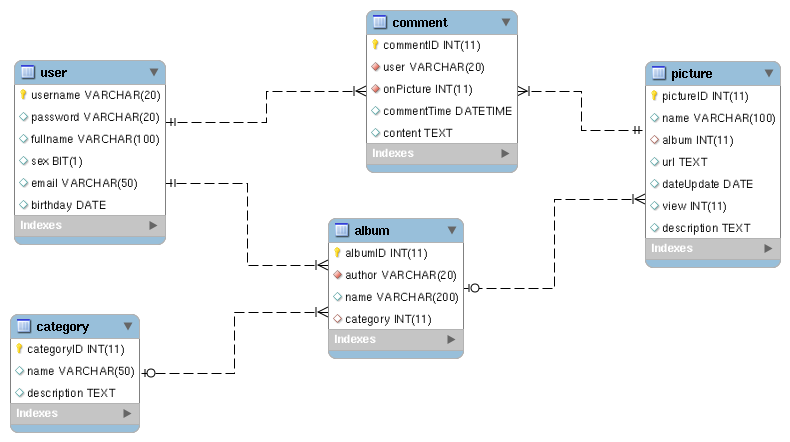
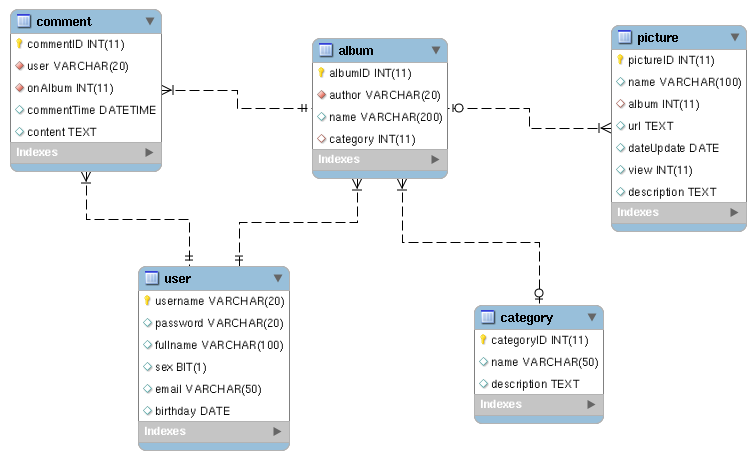
Change field onPicture to onAlbum in table Comment

diff --git a/FisMediaSite/src/main/java/fis/longlive/database/process/ProcessComment.java b/FisMediaSite/src/main/java/fis/longlive/database/process/ProcessComment.java
@@ -55,8 +55,8 @@ public final class ProcessComment {
 				break;
 			case "user":
 				comment.setUser((Integer) value);
-			case "onPicture":
-				comment.setOnPicture((Integer) value);
+			case "onAlbum":
+				comment.setOnAlbum((Integer) value);
 				break;
 			case "content":
 				comment.setContent((String) value);
@@ -82,7 +82,7 @@ public final class ProcessComment {
 		update(id, "content", newContent);
 	}
 	
-	public static void updateOnPicture(int id, int newOnPicture) {
+	public static void updateOnAlbum(int id, int newOnPicture) {
 		update(id, "onPicture", newOnPicture);
 	}
 	

diff --git a/FisMediaSite/src/main/java/fis/longlive/database/table/Comment.java b/FisMediaSite/src/main/java/fis/longlive/database/table/Comment.java
@@ -24,7 +24,7 @@ public class Comment implements Serializable {
 	@Lob
 	private String content;
 
-	private int onPicture;
+	private int onAlbum;
 
 	private int user;
 
@@ -55,12 +55,12 @@ public class Comment implements Serializable {
 		this.content = content;
 	}
 
-	public int getOnPicture() {
-		return this.onPicture;
+	public int getOnAlbum() {
+		return this.onAlbum;
 	}
 
-	public void setOnPicture(int onPicture) {
-		this.onPicture = onPicture;
+	public void setOnAlbum(int onAlbum) {
+		this.onAlbum = onAlbum;
 	}
 
 	public int getUser() {
